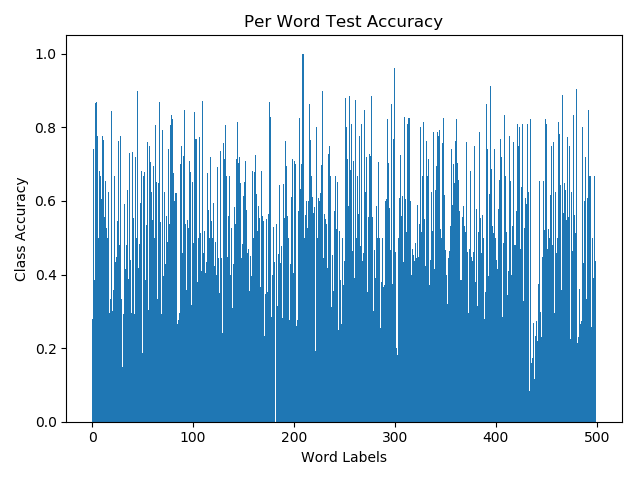
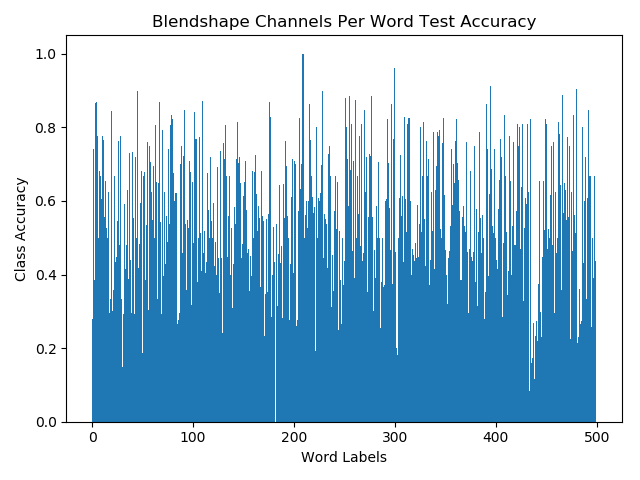
working on results section for classification

Changed region(s): [[0.2188, 0.0312, 0.8438, 0.0625]]

diff --git a/blendshape_classification.tex b/blendshape_classification.tex
@@ -171,6 +171,12 @@ The solution to this can be found by finding the pseudo-inverse for the Blendsha
     \mat{\Lambda} = \mat{W}^{-1}(\mat{M}^{\prime} - \mat{M})
 \end{equation}
 
+\subsection{Dataset Split}
+The dataset consists of 55000 samples.
+This is split into Training, Validation and Test data with 20000/20000/15000 data points respectively.
+When training the model the Training data will be shown to the model, the model will then be evaluated on the Validation data which allows model hyperparameters to be adjusted to improve performance on this dataset.
+To ensure that the model has not been optimised just for the Validation data and can generalise to unseen data, the final performance is reported on the Test data, which is never evaluated on until the model has been tuned to optimum performance on the Validation data.
+
 \section{Data Preprocessing}
 To aid training, the dataset is normalised to a range of [0,1] using equation (\ref{eq:normalise}) where $x_{min}$ and $x_{max}$ are the smallest and largest values in the dataset respectively (Figure \ref{fig:hist_norm}).
 While each Blendshape Axis is separate from one another, normalisation should be performed on all parameters as a whole to preserve information on the variation found in each Blendshape Axis relative to one another.
@@ -251,7 +257,7 @@ For a duration of one second there are 43 frames, 4 blendshape parameters per fr
 The model is trained with the Negative Log Likelihood (NLL) on 500 class labels for each of the labels in the dataset.
 The model makes word level predictions with the LogSoftmax activation function applied to the final layer of the model.
 
-\subsubsection{Model Architecture}
+\subsubsection{Model Architecture} \label{sec:classification_model_arch}
 Similar to the architecture proposed by Chung et al. \cite{Chung2016}, the first convolutional layers do not convolve over the time domain by using 3x1 kernels which do not have a receptive field across the time domain.
 These two layers reduce the input shape from $[1 \times 4 \times 43]$ to $[512 \times 1 \times 43]$, encoding the 4 blendshape parameters into a single value across multiple channels, allowing the single dimension to be collapsed and 1D convolutional layers to be used for subsequent layers.
 
@@ -278,8 +284,7 @@ The hyperparameters which provided the optimum results on the validation data ar
 
 \begin{table}[h!]
 \centering
-    \begin{tabular}{ | l | r | r | r | l | r | l |}
-    \hline
+    \begin{tabular}{l | r | r | r | l | r | l}
     \textbf{Layer} & \textbf{Output} & \textbf{Kernel} & \textbf{Stride} & \textbf{Batch Norm} & \textbf{Dropout} & \textbf{Activation} \\ \hline
     Conv2D & 512x2x43 & 3x1 & 1x1 & True & 0.2 & ReLU \\ \hline
     Conv2D & 512x1x43 & 3x1 & 1x1 & True & 0.2 & ReLU \\ \hline
@@ -289,7 +294,6 @@ The hyperparameters which provided the optimum results on the validation data ar
     MaxPool & 64x9 & 3 & 2 & - & - & - \\ \hline
     Conv1D & 64x7 & 3 & 1 & False & 0.0 & ReLU \\ \hline
     Linear & 500 & - & - & False & 0.0 & LogSoftmax \\
-    \hline
     \end{tabular} 
     \caption{Multiple Towers Model Architecture}
 \end{table}\label{table:multi_towers_classifier}
@@ -297,11 +301,9 @@ The hyperparameters which provided the optimum results on the validation data ar
 
 \begin{table}[h!]
 \centering
-    \begin{tabular}{ | l | r | r | r |}
-    \hline
+    \begin{tabular}{l | r | r | r}
     \textbf{Optimisation Algorithm} & \textbf{Learning Rate} & \textbf{Weight Decay} & \textbf{Batch Size} \\ \hline
     RMSprop & 0.0002 & 0.001 & 128 \\
-    \hline
     \end{tabular} 
     \caption{Multiple Towers Model Hyperparameters}
 \end{table}\label{table:multi_towers_classifier_hyperparameters}
@@ -340,8 +342,7 @@ The model was tuned on the validation data to with the hyperparameters shown in 
 
 \begin{table}[h!]
 \centering
-    \begin{tabular}{ | l | r | r | r | l | r | l |}
-    \hline
+    \begin{tabular}{ l | r | r | r | l | r | l}
     \textbf{Layer} & \textbf{Output} & \textbf{Kernel} & \textbf{Stride} & \textbf{Batch Norm} & \textbf{Dropout} & \textbf{Activation} \\ \hline
     Conv1D & 4x43 & 3 & 1 & True & 0.0 & ReLU \\ \hline
     Conv1D & 32x41 & 3 & 1 & True & 0.0 & ReLU \\ \hline
@@ -352,7 +353,6 @@ The model was tuned on the validation data to with the hyperparameters shown in 
     MaxPool & 512x7 & 2 & 2 & - & - & - \\ \hline
     Conv1D & 256x5 & 3 & 1 & False & 0.0 & ReLU \\ \hline
     Linear & 500 & - & - & False & 0.0 & LogSoftmax \\
-    \hline
     \end{tabular} 
     \caption{Blendshape Channels Model Architecture}
 \end{table}\label{table:blendshape_channels_classifier}
@@ -360,18 +360,17 @@ The model was tuned on the validation data to with the hyperparameters shown in 
 
 \begin{table}[h!]
 \centering
-    \begin{tabular}{ | l | r | r | r |}
+    \begin{tabular}{l | r | r | r}
+    \textbf{Optimisation Algorithm} & \textbf{Learning Rate} & \textbf{Weight Decay} & \textbf{Batch Size} \\
     \hline
-    \textbf{Optimisation Algorithm} & \textbf{Learning Rate} & \textbf{Weight Decay} & \textbf{Batch Size} \\ \hline
     RMSprop & 0.00005 & 0.005 & 128 \\
-    \hline
     \end{tabular} 
     \caption{Blendshape Channels Model Hyperparameters}
 \end{table}\label{table:blendshape_channels_classifier_hyperparameters}
 
 \section{Results}
-
-\subsection{Multiple Towers Model}
+Examining the training losses and validation losses for both models show that despite tuning on the Validation dataset, the model remains to overfit to the Training data considerably.
+This can be seen from the continued reduction in training loss while the validation loss plateaus for both models (Figures \ref{fig:multiple_towers_training}, \ref{fig:channels_training}).
 
 \begin{figure}[h!]
     \centering
@@ -388,12 +387,6 @@ The model was tuned on the validation data to with the hyperparameters shown in 
 
 \begin{figure}[h!]
     \centering
-        \includegraphics[width=0.7\textwidth]{figures/classification/blendshape_multi_tower_class_acc.png}
-    \caption{Blendshape Multi Tower Class Accuracy}
-\end{figure} \label{fig:Blendshape_Multi_Tower_Class_Acc}
-
-\begin{figure}[h!]
-    \centering
     \begin{subfigure}[b]{0.49\textwidth}
         \includegraphics[width=\textwidth]{figures/classification/blendshape_channel_loss.png}
         \caption{Losses}\label{fig:blendshape_channel_loss}
@@ -402,14 +395,15 @@ The model was tuned on the validation data to with the hyperparameters shown in 
         \includegraphics[width=\textwidth]{figures/classification/blendshape_channel_acc.png}
         \caption{Accuracy}\label{fig:blendshape_channel_acc}
     \end{subfigure}
-    \caption{Blendshape Channels Training}
+    \caption{Blendshape Channels Training}\label{fig:channels_training}
 \end{figure}
 
-\begin{figure}[h!]
-    \centering
-        \includegraphics[width=0.7\textwidth]{figures/classification/blendshape_channel_class_acc.png}
-    \caption{Blendshape Channels Class Accuracy}
-\end{figure} \label{fig:Blendshape_Channels_Class_Acc}
+A direct comparison of the models on the Validation data shows that the Blendshape Channel architecture slightly outperforms the Multiple Towers architecture.
+Evaluation on the Test dataset conclude this to be consistently the case (Table \ref{table:classification_test_accuracy}), while the margin between the two remains small.
+Examining word level classification accuracy (Figure \ref{fig:both_models_word_acc}) shows that both models perform Similarly on all classification labels.
+
+TODO collect data on most frequently incorrect labels.
+Label prediction > 0.2\% is still better than a guess.
 
 \begin{figure}[h!]
     \centering
@@ -421,10 +415,36 @@ The model was tuned on the validation data to with the hyperparameters shown in 
         \includegraphics[width=\textwidth]{figures/classification/both_models_val_acc.png}
         \caption{Accuracy}\label{fig:both_models_val_acc}
     \end{subfigure}
-    \caption{Model Training Comparison}
+    \caption{Model Training Comparison}\label{fig:classification_training}
+\end{figure}
+
+\begin{table}[h!]
+\centering
+    \begin{tabular}{l | l | l | l }
+    & \textbf{Train} & \textbf{Validation} & \textbf{Test} \\ \hline
+    \textbf{Multiple Towers} & 0.7911 & 0.5333 & 0.5276 \\
+    \textbf{Blendshape Channels} & 0.8544 & 0.5504 & 0.5461 \\
+    \end{tabular} 
+    \caption{Blendshape Classification Models Test Data Accuracy}
+\end{table}\label{table:classification_test_accuracy}
+
+\begin{figure}[h!]
+    \centering
+    \begin{subfigure}[b]{0.49\textwidth}
+        \includegraphics[width=\textwidth]{figures/classification/blendshape_multi_tower_class_acc.png}
+        \caption{Multiple Towers}\label{fig:multiple_towers_word_acc}
+    \end{subfigure}
+    \begin{subfigure}[b]{0.49\textwidth}
+        \includegraphics[width=\textwidth]{figures/classification/blendshape_channel_class_acc.png}
+        \caption{Blendshape Channels}\label{fig:channels_word_acc}
+    \end{subfigure}
+    \caption{Per Word Test Accuracy}\label{fig:both_models_word_acc}
 \end{figure}
 
 \section{Discussion}
+Both weight decay parameters and dropout were applied to both models, however reductions in the deviation between training and validation losses resulted in an overall worse performance on the validation data.
+This questions the variation in the dataset?
+As mentioned in section \ref{sec:classification_model_arch}, early stopping was applied to both models to halt training once the validation loss has stopped decreasing after ten epochs.
 
 %\bibliographystyle{unsrt}
 %\bibliography{ref}
